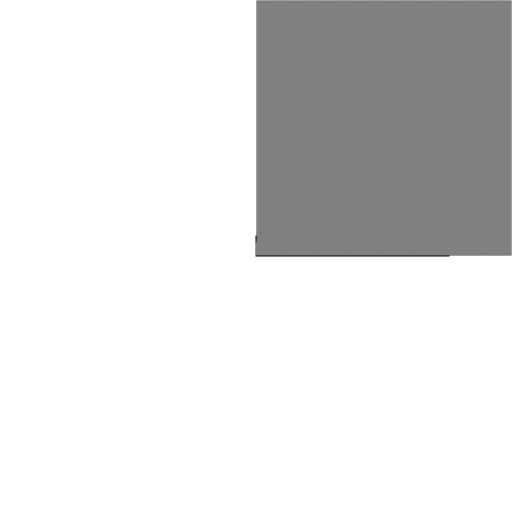
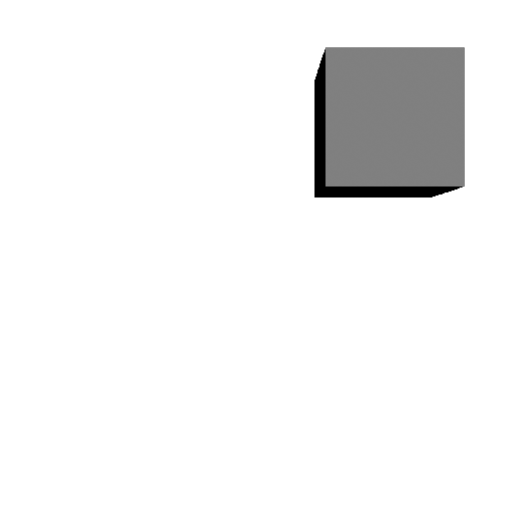
Fixed judging for node_translate_xyz test case to test for image equivalence instead of non-equivalence. Also updated its blessed image.

Changed region(s): [[0.5, 0.0, 1.0, 0.5]]

diff --git a/StandardDataSets/collada/library_visual_scenes/visual_scene/node/translate/node_translate_xyz_cube/node_translate_xyz_cube.py b/StandardDataSets/collada/library_visual_scenes/visual_scene/node/translate/node_translate_xyz_cube/node_translate_xyz_cube.py
@@ -47,7 +47,7 @@ class SimpleJudgingObject:
         # Compare the rendered images between import and export
         # Then compare images against reference test to check for non-equivalence
         if ( self.__assistant.CompareRenderedImages(context) ):
-            self.__assistant.CompareImagesAgainst(context, "_reference_node_translate_xyz_cube", None, None, 5, True, False)
+            self.__assistant.CompareImagesAgainst(context, "_reference_node_translate_xyz_cube", None, None, 5, True, True)
         
         self.status_baseline = self.__assistant.DeferJudgement(context)
         return self.status_baseline
